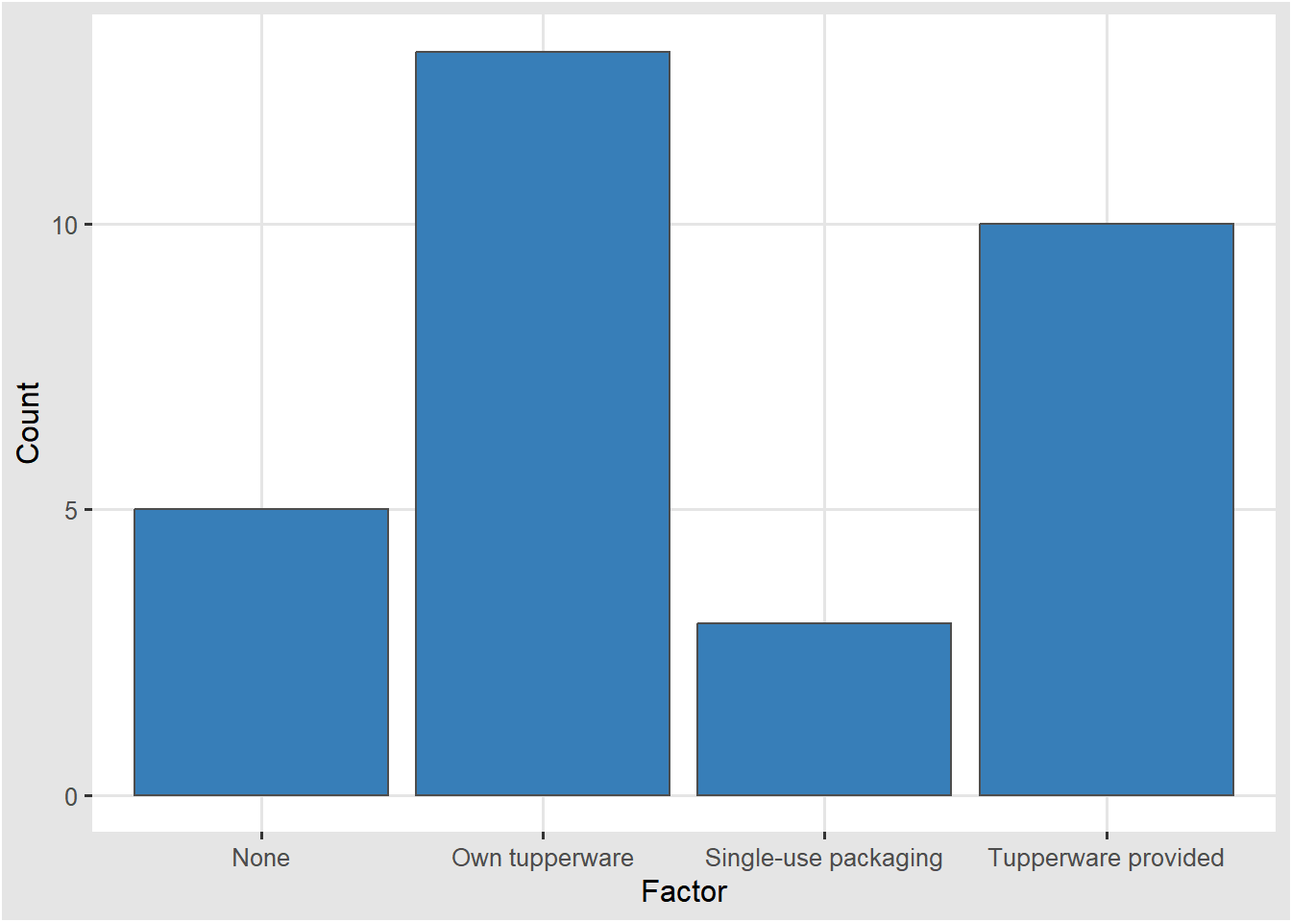
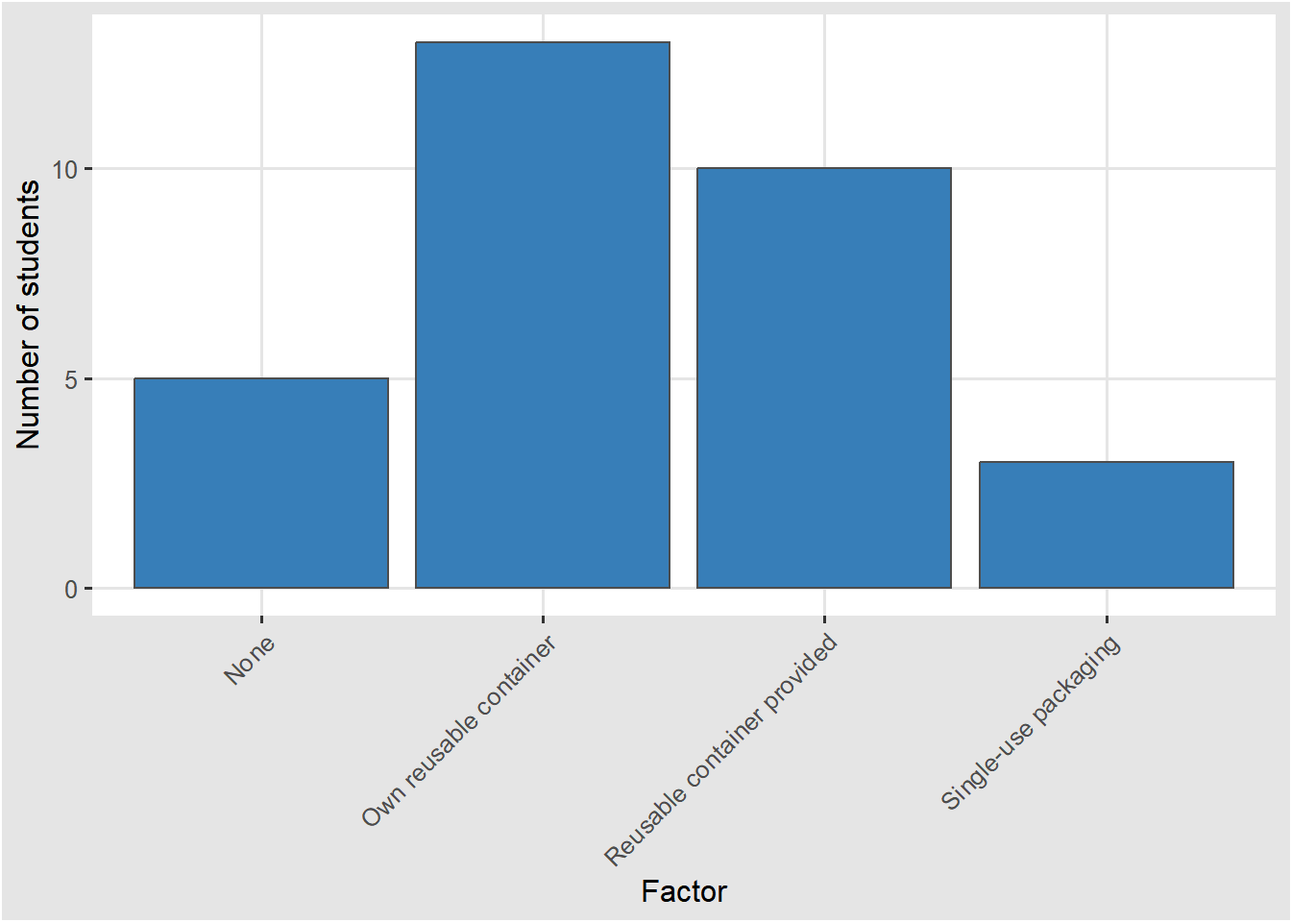
Results updated

diff --git a/docs/index.html b/docs/index.html
@@ -7,7 +7,7 @@
 <meta name="viewport" content="width=device-width, initial-scale=1.0, user-scalable=yes">
 
 <meta name="author" content="Fionn Smith">
-<meta name="dcterms.date" content="2025-06-02">
+<meta name="dcterms.date" content="2025-06-03">
 
 <title>What strategies do ETH Zurich students use to minimise food waste during weekday lunches?</title>
 <style>
@@ -131,7 +131,7 @@ div.csl-indent {
     <div>
     <div class="quarto-title-meta-heading">Published</div>
     <div class="quarto-title-meta-contents">
-      <p class="date">June 2, 2025</p>
+      <p class="date">June 3, 2025</p>
     </div>
   </div>
   
@@ -181,12 +181,12 @@ In all cases, the purpose of the project was explained beforehand, and responses
 <span id="cb4-9"><a href="#cb4-9" aria-hidden="true" tabindex="-1"></a><span class="fu">ggplot</span>(<span class="at">data =</span> consciousness_data, </span>
 <span id="cb4-10"><a href="#cb4-10" aria-hidden="true" tabindex="-1"></a>       <span class="fu">aes</span>(<span class="at">x =</span> consciousness, </span>
 <span id="cb4-11"><a href="#cb4-11" aria-hidden="true" tabindex="-1"></a>           <span class="at">fill =</span> student_type)) <span class="sc">+</span></span>
-<span id="cb4-12"><a href="#cb4-12" aria-hidden="true" tabindex="-1"></a>  <span class="fu">geom_bar</span>(<span class="at">col =</span> <span class="st">"grey30"</span>) <span class="sc">+</span></span>
-<span id="cb4-13"><a href="#cb4-13" aria-hidden="true" tabindex="-1"></a>  <span class="fu">theme_igray</span>() <span class="sc">+</span></span>
-<span id="cb4-14"><a href="#cb4-14" aria-hidden="true" tabindex="-1"></a>  <span class="fu">scale_color_colorblind</span>() <span class="sc">+</span></span>
-<span id="cb4-15"><a href="#cb4-15" aria-hidden="true" tabindex="-1"></a>  <span class="fu">labs</span>(<span class="at">x =</span> <span class="st">"Consciousness Level"</span>,</span>
-<span id="cb4-16"><a href="#cb4-16" aria-hidden="true" tabindex="-1"></a>       <span class="at">y =</span> <span class="st">"Count"</span>,</span>
-<span id="cb4-17"><a href="#cb4-17" aria-hidden="true" tabindex="-1"></a>       <span class="at">fill =</span> <span class="st">"Study Cycle"</span>)</span>
+<span id="cb4-12"><a href="#cb4-12" aria-hidden="true" tabindex="-1"></a>  <span class="fu">labs</span>(<span class="at">x =</span> <span class="st">"Consciousness Level"</span>,</span>
+<span id="cb4-13"><a href="#cb4-13" aria-hidden="true" tabindex="-1"></a>       <span class="at">y =</span> <span class="st">"Count"</span>,</span>
+<span id="cb4-14"><a href="#cb4-14" aria-hidden="true" tabindex="-1"></a>       <span class="at">fill =</span> <span class="st">"Study Cycle"</span>) <span class="sc">+</span></span>
+<span id="cb4-15"><a href="#cb4-15" aria-hidden="true" tabindex="-1"></a>  <span class="fu">geom_bar</span>(<span class="at">col =</span> <span class="st">"grey30"</span>) <span class="sc">+</span></span>
+<span id="cb4-16"><a href="#cb4-16" aria-hidden="true" tabindex="-1"></a>  <span class="fu">theme_igray</span>() <span class="sc">+</span></span>
+<span id="cb4-17"><a href="#cb4-17" aria-hidden="true" tabindex="-1"></a>  <span class="fu">scale_color_colorblind</span>()</span>
 <span id="cb4-18"><a href="#cb4-18" aria-hidden="true" tabindex="-1"></a></span>
 <span id="cb4-19"><a href="#cb4-19" aria-hidden="true" tabindex="-1"></a><span class="fu">write_csv</span>(consciousness_data, here<span class="sc">::</span><span class="fu">here</span>(<span class="st">"data/final/fig-consciousness.csv"</span>))</span></code><button title="Copy to Clipboard" class="code-copy-button"><i class="bi"></i></button></pre></div>
 <div class="cell-output-display">
@@ -213,7 +213,7 @@ Figure&nbsp;1: Self-reported consciousness of food waste by study cycle
 <span id="cb5-7"><a href="#cb5-7" aria-hidden="true" tabindex="-1"></a>    Motivation <span class="sc">==</span> <span class="st">"motivation_sustainability"</span> <span class="sc">~</span> <span class="st">"Sustainability"</span>,</span>
 <span id="cb5-8"><a href="#cb5-8" aria-hidden="true" tabindex="-1"></a>    Motivation <span class="sc">==</span> <span class="st">"motivation_monetary"</span> <span class="sc">~</span> <span class="st">"Monetary"</span>,</span>
 <span id="cb5-9"><a href="#cb5-9" aria-hidden="true" tabindex="-1"></a>    Motivation <span class="sc">==</span> <span class="st">"motivation_humanitarian"</span> <span class="sc">~</span> <span class="st">"Humanitarian"</span>,</span>
-<span id="cb5-10"><a href="#cb5-10" aria-hidden="true" tabindex="-1"></a>    Motivation <span class="sc">==</span> <span class="st">"motivation_cultural"</span> <span class="sc">~</span> <span class="st">"Cultural"</span></span>
+<span id="cb5-10"><a href="#cb5-10" aria-hidden="true" tabindex="-1"></a>    Motivation <span class="sc">==</span> <span class="st">"motivation_cultural"</span> <span class="sc">~</span> <span class="st">"Culture"</span></span>
 <span id="cb5-11"><a href="#cb5-11" aria-hidden="true" tabindex="-1"></a>  ))</span>
 <span id="cb5-12"><a href="#cb5-12" aria-hidden="true" tabindex="-1"></a></span>
 <span id="cb5-13"><a href="#cb5-13" aria-hidden="true" tabindex="-1"></a>motivation_data <span class="sc">|&gt;</span> </span>
@@ -251,7 +251,7 @@ Table&nbsp;1: Motivation to care about food waste proportion
 <td style="text-align: right;">0.29</td>
 </tr>
 <tr class="even">
-<td style="text-align: left;">Cultural</td>
+<td style="text-align: left;">Culture</td>
 <td style="text-align: right;">0.42</td>
 <td style="text-align: right;">0.58</td>
 </tr>
@@ -280,7 +280,7 @@ Table&nbsp;1: Motivation to care about food waste proportion
 <div id="tbl-lunch_source" class="cell quarto-float quarto-figure quarto-figure-center anchored">
 <figure class="quarto-float quarto-float-tbl figure">
 <figcaption class="quarto-float-caption-top quarto-float-caption quarto-float-tbl" id="tbl-lunch_source-caption-0ceaefa1-69ba-4598-a22c-09a6ac19f8ca">
-Table&nbsp;2: Days of lunch source per week (0-5)
+Table&nbsp;2: Average days of lunch source per week (0-5)
 </figcaption>
 <div aria-describedby="tbl-lunch_source-caption-0ceaefa1-69ba-4598-a22c-09a6ac19f8ca">
 <div class="cell-output-display">
@@ -322,7 +322,7 @@ Table&nbsp;2: Days of lunch source per week (0-5)
 <div id="tbl-lunch_waste" class="cell quarto-float quarto-figure quarto-figure-center anchored">
 <figure class="quarto-float quarto-float-tbl figure">
 <figcaption class="quarto-float-caption-top quarto-float-caption quarto-float-tbl" id="tbl-lunch_waste-caption-0ceaefa1-69ba-4598-a22c-09a6ac19f8ca">
-Table&nbsp;3: Waste by lunch source (1-5)
+Table&nbsp;3: Average self-reported waste by lunch source (1-5)
 </figcaption>
 <div aria-describedby="tbl-lunch_waste-caption-0ceaefa1-69ba-4598-a22c-09a6ac19f8ca">
 <div class="cell-output-display">
@@ -347,17 +347,18 @@ Table&nbsp;3: Waste by lunch source (1-5)
 </figure>
 </div>
 </div>
-<p>To further investigate the reasons behind higher food waste in university cafeterias compared to other sources of lunch, students were presented with different scenarios and asked to choose their most likely approach to leftover food. Throwing food away was the least common choice, both in the case of eating lunch in a university cafeteria alone and eating with a friend. However, when eating alone, throwing leftovers away became more prevalent (<a href="#fig-scenarios" class="quarto-xref">Figure&nbsp;2</a>). This suggests…</p>
+<p>To further investigate the reasons behind higher food waste in university cafeterias compared to other sources of lunch, students were presented with different scenarios and asked to choose their most likely approach to leftover food. Throwing food away was the least common choice, both in the case of eating lunch in a university cafeteria alone and eating with a friend. However, when eating alone, throwing leftovers away became more prevalent (<a href="#fig-scenarios" class="quarto-xref">Figure&nbsp;2</a>). This suggests that students choose not to take leftovers home if possible, but are more likely to when faced with wasting food.</p>
+<p><a href="#fig-encouragement" class="quarto-xref">Figure&nbsp;3</a> shows that there is potential to increase the willingness to take leftovers home and thus reduce food waste. Most students reported that having either their own reusable containers or having access to such would make them more likely to take leftovers home.</p>
 <div class="cell">
 <div class="sourceCode cell-code" id="cb8"><pre class="sourceCode r code-with-copy"><code class="sourceCode r"><span id="cb8-1"><a href="#cb8-1" aria-hidden="true" tabindex="-1"></a>scenario_data <span class="ot">&lt;-</span> survey_data <span class="sc">|&gt;</span> </span>
 <span id="cb8-2"><a href="#cb8-2" aria-hidden="true" tabindex="-1"></a>  <span class="fu">select</span>(scenario_lunch_alone, scenario_lunch_friend) <span class="sc">|&gt;</span> </span>
 <span id="cb8-3"><a href="#cb8-3" aria-hidden="true" tabindex="-1"></a>  <span class="fu">pivot_longer</span>(<span class="at">cols =</span> <span class="fu">everything</span>(), <span class="at">names_to =</span> <span class="st">"Scenario"</span>, <span class="at">values_to =</span> <span class="st">"Action"</span>) <span class="sc">|&gt;</span>   <span class="fu">mutate</span>(</span>
 <span id="cb8-4"><a href="#cb8-4" aria-hidden="true" tabindex="-1"></a>    <span class="at">Scenario =</span> <span class="fu">case_when</span>(</span>
 <span id="cb8-5"><a href="#cb8-5" aria-hidden="true" tabindex="-1"></a>      Scenario <span class="sc">==</span> <span class="st">"scenario_lunch_alone"</span> <span class="sc">~</span> <span class="st">"Eating lunch alone"</span>,</span>
-<span id="cb8-6"><a href="#cb8-6" aria-hidden="true" tabindex="-1"></a>      Scenario <span class="sc">==</span> <span class="st">"scenario_lunch_friend"</span> <span class="sc">~</span> <span class="st">"Eating Lunch with a friend"</span></span>
+<span id="cb8-6"><a href="#cb8-6" aria-hidden="true" tabindex="-1"></a>      Scenario <span class="sc">==</span> <span class="st">"scenario_lunch_friend"</span> <span class="sc">~</span> <span class="st">"Eating lunch with a friend"</span></span>
 <span id="cb8-7"><a href="#cb8-7" aria-hidden="true" tabindex="-1"></a>    ),</span>
 <span id="cb8-8"><a href="#cb8-8" aria-hidden="true" tabindex="-1"></a>    <span class="at">Action =</span> <span class="fu">case_when</span>(</span>
-<span id="cb8-9"><a href="#cb8-9" aria-hidden="true" tabindex="-1"></a>      Action <span class="sc">==</span> <span class="st">"pass_on"</span> <span class="sc">~</span> <span class="st">"Pass on"</span>,</span>
+<span id="cb8-9"><a href="#cb8-9" aria-hidden="true" tabindex="-1"></a>      Action <span class="sc">==</span> <span class="st">"pass_on"</span> <span class="sc">~</span> <span class="st">"Share"</span>,</span>
 <span id="cb8-10"><a href="#cb8-10" aria-hidden="true" tabindex="-1"></a>      Action <span class="sc">==</span> <span class="st">"take_home"</span> <span class="sc">~</span> <span class="st">"Take home"</span>,</span>
 <span id="cb8-11"><a href="#cb8-11" aria-hidden="true" tabindex="-1"></a>      Action <span class="sc">==</span> <span class="st">"throw_away"</span> <span class="sc">~</span> <span class="st">"Throw away"</span></span>
 <span id="cb8-12"><a href="#cb8-12" aria-hidden="true" tabindex="-1"></a>  ))</span>
@@ -365,13 +366,14 @@ Table&nbsp;3: Waste by lunch source (1-5)
 <span id="cb8-14"><a href="#cb8-14" aria-hidden="true" tabindex="-1"></a><span class="fu">ggplot</span>(<span class="at">data =</span> scenario_data, </span>
 <span id="cb8-15"><a href="#cb8-15" aria-hidden="true" tabindex="-1"></a>       <span class="fu">aes</span>(<span class="at">x =</span> Action)) <span class="sc">+</span></span>
 <span id="cb8-16"><a href="#cb8-16" aria-hidden="true" tabindex="-1"></a>  <span class="fu">facet_grid</span>(<span class="sc">~</span>Scenario, <span class="at">scales =</span> <span class="st">"free"</span>) <span class="sc">+</span></span>
-<span id="cb8-17"><a href="#cb8-17" aria-hidden="true" tabindex="-1"></a>  <span class="fu">geom_bar</span>(<span class="at">fill =</span> <span class="st">"#377EB8"</span>, <span class="at">col =</span> <span class="st">"grey30"</span>) <span class="sc">+</span></span>
-<span id="cb8-18"><a href="#cb8-18" aria-hidden="true" tabindex="-1"></a>  <span class="fu">theme_igray</span>() <span class="sc">+</span></span>
-<span id="cb8-19"><a href="#cb8-19" aria-hidden="true" tabindex="-1"></a>  <span class="fu">scale_color_colorblind</span>() <span class="sc">+</span></span>
-<span id="cb8-20"><a href="#cb8-20" aria-hidden="true" tabindex="-1"></a>  <span class="fu">labs</span>(<span class="at">x =</span> <span class="st">"First choice"</span>,</span>
-<span id="cb8-21"><a href="#cb8-21" aria-hidden="true" tabindex="-1"></a>       <span class="at">y =</span> <span class="st">"Count"</span>)</span>
-<span id="cb8-22"><a href="#cb8-22" aria-hidden="true" tabindex="-1"></a></span>
-<span id="cb8-23"><a href="#cb8-23" aria-hidden="true" tabindex="-1"></a><span class="fu">write_csv</span>(scenario_data, here<span class="sc">::</span><span class="fu">here</span>(<span class="st">"data/final/fig-scenarios.csv"</span>))</span></code><button title="Copy to Clipboard" class="code-copy-button"><i class="bi"></i></button></pre></div>
+<span id="cb8-17"><a href="#cb8-17" aria-hidden="true" tabindex="-1"></a>  <span class="fu">labs</span>(<span class="at">x =</span> <span class="st">"First choice"</span>,</span>
+<span id="cb8-18"><a href="#cb8-18" aria-hidden="true" tabindex="-1"></a>       <span class="at">y =</span> <span class="st">"Number of students"</span>) <span class="sc">+</span></span>
+<span id="cb8-19"><a href="#cb8-19" aria-hidden="true" tabindex="-1"></a>  <span class="fu">geom_bar</span>(<span class="at">fill =</span> <span class="st">"#377EB8"</span>, <span class="at">col =</span> <span class="st">"grey30"</span>) <span class="sc">+</span></span>
+<span id="cb8-20"><a href="#cb8-20" aria-hidden="true" tabindex="-1"></a>  <span class="fu">theme_igray</span>() <span class="sc">+</span></span>
+<span id="cb8-21"><a href="#cb8-21" aria-hidden="true" tabindex="-1"></a>  <span class="fu">theme</span>(<span class="at">axis.text.x =</span> <span class="fu">element_text</span>(<span class="at">angle =</span> <span class="dv">45</span>, <span class="at">hjust =</span> <span class="dv">1</span>)) <span class="sc">+</span></span>
+<span id="cb8-22"><a href="#cb8-22" aria-hidden="true" tabindex="-1"></a>  <span class="fu">scale_color_colorblind</span>()</span>
+<span id="cb8-23"><a href="#cb8-23" aria-hidden="true" tabindex="-1"></a></span>
+<span id="cb8-24"><a href="#cb8-24" aria-hidden="true" tabindex="-1"></a><span class="fu">write_csv</span>(scenario_data, here<span class="sc">::</span><span class="fu">here</span>(<span class="st">"data/final/fig-scenarios.csv"</span>))</span></code><button title="Copy to Clipboard" class="code-copy-button"><i class="bi"></i></button></pre></div>
 <div class="cell-output-display">
 <div id="fig-scenarios" class="quarto-float quarto-figure quarto-figure-center anchored">
 <figure class="quarto-float quarto-float-fig figure">
@@ -391,21 +393,22 @@ Figure&nbsp;2: Leftover food scenarios
 <span id="cb9-3"><a href="#cb9-3" aria-hidden="true" tabindex="-1"></a>  <span class="fu">rename</span>(<span class="st">"Encouragement"</span> <span class="ot">=</span> <span class="st">"encouragement"</span>) <span class="sc">|&gt;</span> </span>
 <span id="cb9-4"><a href="#cb9-4" aria-hidden="true" tabindex="-1"></a>  <span class="fu">mutate</span>(</span>
 <span id="cb9-5"><a href="#cb9-5" aria-hidden="true" tabindex="-1"></a>    <span class="at">Encouragement =</span> <span class="fu">case_when</span>(</span>
-<span id="cb9-6"><a href="#cb9-6" aria-hidden="true" tabindex="-1"></a>      Encouragement <span class="sc">==</span> <span class="st">"tupperware"</span> <span class="sc">~</span> <span class="st">"Own tupperware"</span>,</span>
+<span id="cb9-6"><a href="#cb9-6" aria-hidden="true" tabindex="-1"></a>      Encouragement <span class="sc">==</span> <span class="st">"tupperware"</span> <span class="sc">~</span> <span class="st">"Own reusable container"</span>,</span>
 <span id="cb9-7"><a href="#cb9-7" aria-hidden="true" tabindex="-1"></a>      Encouragement <span class="sc">==</span> <span class="st">"provided_single_use"</span> <span class="sc">~</span> <span class="st">"Single-use packaging"</span>,</span>
-<span id="cb9-8"><a href="#cb9-8" aria-hidden="true" tabindex="-1"></a>      Encouragement <span class="sc">==</span> <span class="st">"provided_tupperware"</span> <span class="sc">~</span> <span class="st">"Tupperware provided"</span>,</span>
+<span id="cb9-8"><a href="#cb9-8" aria-hidden="true" tabindex="-1"></a>      Encouragement <span class="sc">==</span> <span class="st">"provided_tupperware"</span> <span class="sc">~</span> <span class="st">"Reusable container provided"</span>,</span>
 <span id="cb9-9"><a href="#cb9-9" aria-hidden="true" tabindex="-1"></a>      Encouragement <span class="sc">==</span> <span class="st">"none"</span> <span class="sc">~</span> <span class="st">"None"</span></span>
 <span id="cb9-10"><a href="#cb9-10" aria-hidden="true" tabindex="-1"></a>  ))</span>
 <span id="cb9-11"><a href="#cb9-11" aria-hidden="true" tabindex="-1"></a></span>
 <span id="cb9-12"><a href="#cb9-12" aria-hidden="true" tabindex="-1"></a><span class="fu">ggplot</span>(<span class="at">data =</span> encouragement_data, </span>
 <span id="cb9-13"><a href="#cb9-13" aria-hidden="true" tabindex="-1"></a>       <span class="fu">aes</span>(<span class="at">x =</span> Encouragement)) <span class="sc">+</span></span>
-<span id="cb9-14"><a href="#cb9-14" aria-hidden="true" tabindex="-1"></a>  <span class="fu">geom_bar</span>(<span class="at">fill =</span> <span class="st">"#377EB8"</span>, <span class="at">col =</span> <span class="st">"grey30"</span>) <span class="sc">+</span></span>
-<span id="cb9-15"><a href="#cb9-15" aria-hidden="true" tabindex="-1"></a>  <span class="fu">theme_igray</span>() <span class="sc">+</span></span>
-<span id="cb9-16"><a href="#cb9-16" aria-hidden="true" tabindex="-1"></a>  <span class="fu">scale_color_colorblind</span>() <span class="sc">+</span></span>
-<span id="cb9-17"><a href="#cb9-17" aria-hidden="true" tabindex="-1"></a>  <span class="fu">labs</span>(<span class="at">x =</span> <span class="st">"Factor"</span>,</span>
-<span id="cb9-18"><a href="#cb9-18" aria-hidden="true" tabindex="-1"></a>       <span class="at">y =</span> <span class="st">"Count"</span>)</span>
-<span id="cb9-19"><a href="#cb9-19" aria-hidden="true" tabindex="-1"></a></span>
-<span id="cb9-20"><a href="#cb9-20" aria-hidden="true" tabindex="-1"></a><span class="fu">write_csv</span>(encouragement_data, here<span class="sc">::</span><span class="fu">here</span>(<span class="st">"data/final/fig-encouragement.csv"</span>))</span></code><button title="Copy to Clipboard" class="code-copy-button"><i class="bi"></i></button></pre></div>
+<span id="cb9-14"><a href="#cb9-14" aria-hidden="true" tabindex="-1"></a>  <span class="fu">labs</span>(<span class="at">x =</span> <span class="st">"Factor"</span>,</span>
+<span id="cb9-15"><a href="#cb9-15" aria-hidden="true" tabindex="-1"></a>       <span class="at">y =</span> <span class="st">"Number of students"</span>) <span class="sc">+</span></span>
+<span id="cb9-16"><a href="#cb9-16" aria-hidden="true" tabindex="-1"></a>  <span class="fu">geom_bar</span>(<span class="at">fill =</span> <span class="st">"#377EB8"</span>, <span class="at">col =</span> <span class="st">"grey30"</span>) <span class="sc">+</span></span>
+<span id="cb9-17"><a href="#cb9-17" aria-hidden="true" tabindex="-1"></a>  <span class="fu">theme_igray</span>() <span class="sc">+</span></span>
+<span id="cb9-18"><a href="#cb9-18" aria-hidden="true" tabindex="-1"></a>  <span class="fu">theme</span>(<span class="at">axis.text.x =</span> <span class="fu">element_text</span>(<span class="at">angle =</span> <span class="dv">45</span>, <span class="at">hjust =</span> <span class="dv">1</span>)) <span class="sc">+</span></span>
+<span id="cb9-19"><a href="#cb9-19" aria-hidden="true" tabindex="-1"></a>  <span class="fu">scale_color_colorblind</span>()</span>
+<span id="cb9-20"><a href="#cb9-20" aria-hidden="true" tabindex="-1"></a></span>
+<span id="cb9-21"><a href="#cb9-21" aria-hidden="true" tabindex="-1"></a><span class="fu">write_csv</span>(encouragement_data, here<span class="sc">::</span><span class="fu">here</span>(<span class="st">"data/final/fig-encouragement.csv"</span>))</span></code><button title="Copy to Clipboard" class="code-copy-button"><i class="bi"></i></button></pre></div>
 <div class="cell-output-display">
 <div id="fig-encouragement" class="quarto-float quarto-figure quarto-figure-center anchored">
 <figure class="quarto-float quarto-float-fig figure">
@@ -427,18 +430,22 @@ Figure&nbsp;3: Methods to encourage food waste reduction
 <span id="cb10-5"><a href="#cb10-5" aria-hidden="true" tabindex="-1"></a>      Portion <span class="sc">==</span> <span class="st">"portion_large"</span> <span class="sc">~</span> <span class="st">"Large portion"</span>,</span>
 <span id="cb10-6"><a href="#cb10-6" aria-hidden="true" tabindex="-1"></a>      Portion <span class="sc">==</span> <span class="st">"portion_small"</span> <span class="sc">~</span> <span class="st">"Small portion"</span>,</span>
 <span id="cb10-7"><a href="#cb10-7" aria-hidden="true" tabindex="-1"></a>      Portion <span class="sc">==</span> <span class="st">"portion_second"</span> <span class="sc">~</span> <span class="st">"Second portion"</span>,</span>
-<span id="cb10-8"><a href="#cb10-8" aria-hidden="true" tabindex="-1"></a>  ))</span>
-<span id="cb10-9"><a href="#cb10-9" aria-hidden="true" tabindex="-1"></a></span>
-<span id="cb10-10"><a href="#cb10-10" aria-hidden="true" tabindex="-1"></a><span class="fu">ggplot</span>(<span class="at">data =</span> portions_data, </span>
-<span id="cb10-11"><a href="#cb10-11" aria-hidden="true" tabindex="-1"></a>       <span class="fu">aes</span>(<span class="at">x =</span> Choice)) <span class="sc">+</span></span>
-<span id="cb10-12"><a href="#cb10-12" aria-hidden="true" tabindex="-1"></a>  <span class="fu">geom_bar</span>(<span class="at">fill =</span> <span class="st">"#377EB8"</span>, <span class="at">col =</span> <span class="st">"grey30"</span>) <span class="sc">+</span></span>
-<span id="cb10-13"><a href="#cb10-13" aria-hidden="true" tabindex="-1"></a>  <span class="fu">facet_grid</span>(<span class="sc">~</span>Portion, <span class="at">scales =</span> <span class="st">"free"</span>) <span class="sc">+</span></span>
-<span id="cb10-14"><a href="#cb10-14" aria-hidden="true" tabindex="-1"></a>  <span class="fu">theme_igray</span>() <span class="sc">+</span></span>
-<span id="cb10-15"><a href="#cb10-15" aria-hidden="true" tabindex="-1"></a>  <span class="fu">scale_color_colorblind</span>() <span class="sc">+</span></span>
-<span id="cb10-16"><a href="#cb10-16" aria-hidden="true" tabindex="-1"></a>  <span class="fu">labs</span>(<span class="at">x =</span> <span class="st">"Choice"</span>,</span>
-<span id="cb10-17"><a href="#cb10-17" aria-hidden="true" tabindex="-1"></a>       <span class="at">y =</span> <span class="st">"Count"</span>)</span>
-<span id="cb10-18"><a href="#cb10-18" aria-hidden="true" tabindex="-1"></a></span>
-<span id="cb10-19"><a href="#cb10-19" aria-hidden="true" tabindex="-1"></a><span class="fu">write_csv</span>(encouragement_data, here<span class="sc">::</span><span class="fu">here</span>(<span class="st">"data/final/fig-portions.csv"</span>))</span></code><button title="Copy to Clipboard" class="code-copy-button"><i class="bi"></i></button></pre></div>
+<span id="cb10-8"><a href="#cb10-8" aria-hidden="true" tabindex="-1"></a>  )) <span class="sc">|&gt;</span> </span>
+<span id="cb10-9"><a href="#cb10-9" aria-hidden="true" tabindex="-1"></a>  <span class="fu">mutate</span>(<span class="at">Choice =</span> <span class="fu">case_when</span>(</span>
+<span id="cb10-10"><a href="#cb10-10" aria-hidden="true" tabindex="-1"></a>      Choice <span class="sc">==</span> <span class="st">"TRUE"</span> <span class="sc">~</span> <span class="st">"Yes"</span>,</span>
+<span id="cb10-11"><a href="#cb10-11" aria-hidden="true" tabindex="-1"></a>      Choice <span class="sc">==</span> <span class="st">"FALSE"</span> <span class="sc">~</span> <span class="st">"No"</span></span>
+<span id="cb10-12"><a href="#cb10-12" aria-hidden="true" tabindex="-1"></a>  ))</span>
+<span id="cb10-13"><a href="#cb10-13" aria-hidden="true" tabindex="-1"></a></span>
+<span id="cb10-14"><a href="#cb10-14" aria-hidden="true" tabindex="-1"></a><span class="fu">ggplot</span>(<span class="at">data =</span> portions_data, </span>
+<span id="cb10-15"><a href="#cb10-15" aria-hidden="true" tabindex="-1"></a>       <span class="fu">aes</span>(<span class="at">x =</span> Choice)) <span class="sc">+</span></span>
+<span id="cb10-16"><a href="#cb10-16" aria-hidden="true" tabindex="-1"></a>  <span class="fu">geom_bar</span>(<span class="at">fill =</span> <span class="st">"#377EB8"</span>, <span class="at">col =</span> <span class="st">"grey30"</span>) <span class="sc">+</span></span>
+<span id="cb10-17"><a href="#cb10-17" aria-hidden="true" tabindex="-1"></a>  <span class="fu">facet_grid</span>(<span class="sc">~</span>Portion, <span class="at">scales =</span> <span class="st">"free"</span>) <span class="sc">+</span></span>
+<span id="cb10-18"><a href="#cb10-18" aria-hidden="true" tabindex="-1"></a>  <span class="fu">theme_igray</span>() <span class="sc">+</span></span>
+<span id="cb10-19"><a href="#cb10-19" aria-hidden="true" tabindex="-1"></a>  <span class="fu">scale_color_colorblind</span>() <span class="sc">+</span></span>
+<span id="cb10-20"><a href="#cb10-20" aria-hidden="true" tabindex="-1"></a>  <span class="fu">labs</span>(<span class="at">x =</span> <span class="st">"Choice"</span>,</span>
+<span id="cb10-21"><a href="#cb10-21" aria-hidden="true" tabindex="-1"></a>       <span class="at">y =</span> <span class="st">"Number of students"</span>)</span>
+<span id="cb10-22"><a href="#cb10-22" aria-hidden="true" tabindex="-1"></a></span>
+<span id="cb10-23"><a href="#cb10-23" aria-hidden="true" tabindex="-1"></a><span class="fu">write_csv</span>(encouragement_data, here<span class="sc">::</span><span class="fu">here</span>(<span class="st">"data/final/fig-portions.csv"</span>))</span></code><button title="Copy to Clipboard" class="code-copy-button"><i class="bi"></i></button></pre></div>
 <div class="cell-output-display">
 <div id="fig-portions" class="quarto-float quarto-figure quarto-figure-center anchored">
 <figure class="quarto-float quarto-float-fig figure">
@@ -457,7 +464,7 @@ Figure&nbsp;4: Portion choice in cafeterias
 <span id="cb11-2"><a href="#cb11-2" aria-hidden="true" tabindex="-1"></a>  <span class="fu">select</span>(food_avoidance) <span class="sc">|&gt;</span> </span>
 <span id="cb11-3"><a href="#cb11-3" aria-hidden="true" tabindex="-1"></a>  <span class="fu">count</span>(food_avoidance) <span class="sc">|&gt;</span> </span>
 <span id="cb11-4"><a href="#cb11-4" aria-hidden="true" tabindex="-1"></a>  <span class="fu">rename</span>(<span class="st">"Avoidance"</span> <span class="ot">=</span> <span class="st">"food_avoidance"</span>,</span>
-<span id="cb11-5"><a href="#cb11-5" aria-hidden="true" tabindex="-1"></a>         <span class="st">"Count"</span> <span class="ot">=</span> <span class="st">"n"</span>) <span class="sc">|&gt;</span> </span>
+<span id="cb11-5"><a href="#cb11-5" aria-hidden="true" tabindex="-1"></a>         <span class="st">"Number of students"</span> <span class="ot">=</span> <span class="st">"n"</span>) <span class="sc">|&gt;</span> </span>
 <span id="cb11-6"><a href="#cb11-6" aria-hidden="true" tabindex="-1"></a>  <span class="fu">mutate</span>(<span class="at">Avoidance =</span> <span class="fu">case_when</span>(</span>
 <span id="cb11-7"><a href="#cb11-7" aria-hidden="true" tabindex="-1"></a>    Avoidance <span class="sc">==</span> <span class="st">"yes"</span> <span class="sc">~</span> <span class="st">"Yes"</span>,</span>
 <span id="cb11-8"><a href="#cb11-8" aria-hidden="true" tabindex="-1"></a>    Avoidance <span class="sc">==</span> <span class="st">"sometimes"</span> <span class="sc">~</span> <span class="st">"Sometimes"</span>,</span>
@@ -478,7 +485,7 @@ Table&nbsp;4: Avoidance of dislikes in cafeteria food
 <thead>
 <tr class="header">
 <th style="text-align: left;">Avoidance</th>
-<th style="text-align: right;">Count</th>
+<th style="text-align: right;">Number of students</th>
 </tr>
 </thead>
 <tbody>
@@ -505,7 +512,7 @@ Table&nbsp;4: Avoidance of dislikes in cafeteria food
 <section id="conclusions" class="level1">
 <h1>Conclusions</h1>
 <ul>
-<li><p>Students report high levels of consciousness of food waste, with the vast majority consideirng sustainability as a motivation</p></li>
+<li><p>Students report high levels of consciousness of food waste, with the vast majority considering sustainability as a motivation</p></li>
 <li><p>University cafeterias are a common sources of weekday lunch in university and lead to more food waste than other sources</p></li>
 <li></li>
 </ul>
